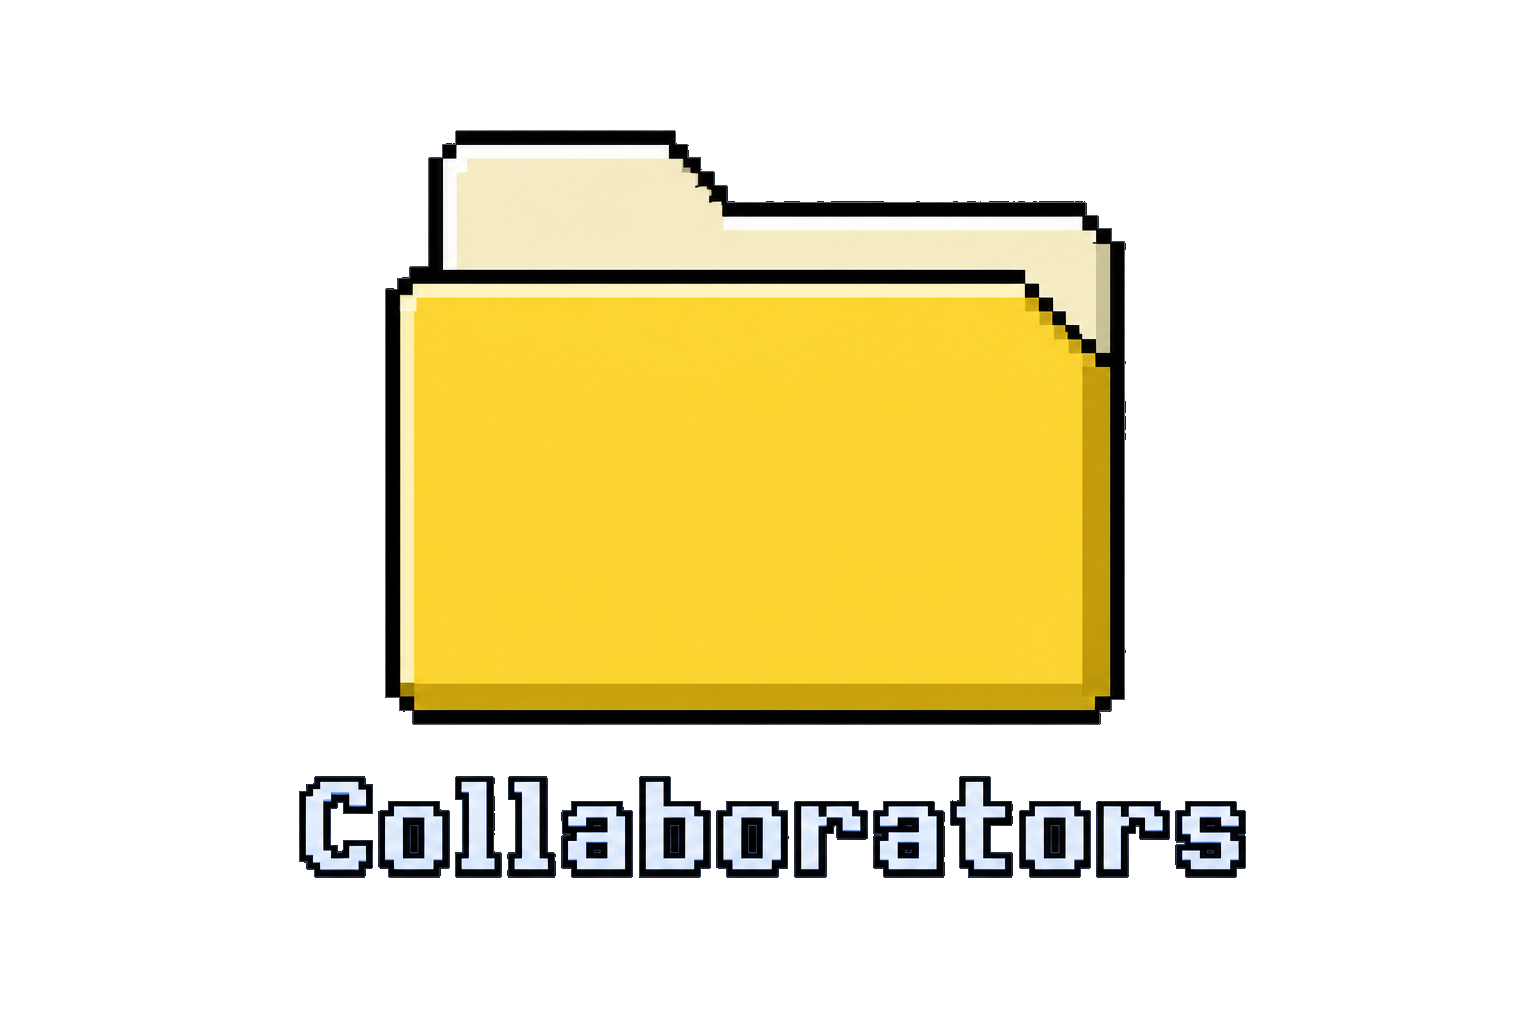
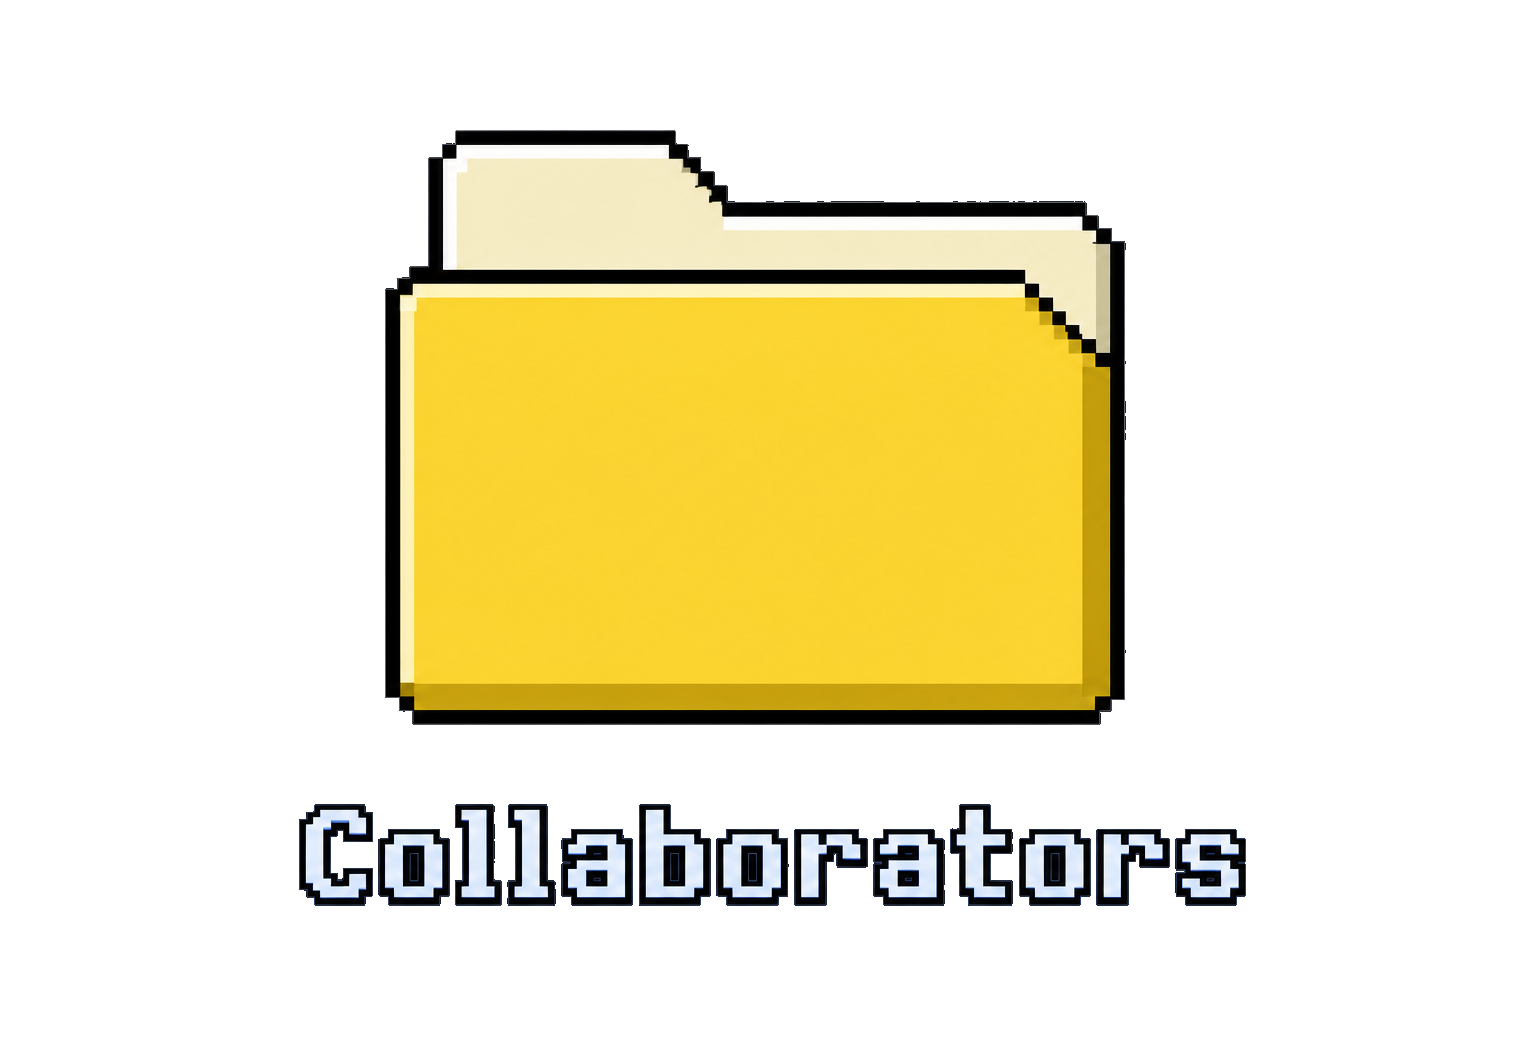
Richer halftone background, folder spacing, system cursors
- Add layered halftone bg.png with lavender, pink, and blue variation
- Increase gap between folder icon and Collaborators label
- Revert all custom cursor sprites to native default/pointer

diff --git a/index.html b/index.html
@@ -20,8 +20,6 @@
     --btn-face:#ebe6f7;
     --ocean:var(--bolt);
     --shadow-dot:#c9c3e8;
-    --cursor-default:url('assets/cursor-default.svg') 0 0, default;
-    --cursor-pointer:url('assets/cursor-pointer.svg') 8 2, pointer;
   }
   *{box-sizing:border-box}
   html,body{height:100%}
@@ -31,7 +29,7 @@
     font-family:Tahoma, Geneva, "DejaVu Sans", Verdana, sans-serif;
     -webkit-font-smoothing:none;
     padding:0;
-    cursor:var(--cursor-default);
+    cursor:default;
   }
   .canvas{
     position:relative;
@@ -40,17 +38,9 @@
     max-height:100vh;
     display:flex; align-items:center; justify-content:center;
     overflow:hidden;
-    background:linear-gradient(180deg, var(--mist) 0%, var(--dusk) 100%);
-    cursor:var(--cursor-default);
-  }
-  .canvas::before{
-    content:"";
-    position:absolute; inset:0;
-    pointer-events:none;
-    background-image:radial-gradient(circle, rgba(255,255,255,0.22) 1px, transparent 1px);
-    background-size:5px 5px;
-    mix-blend-mode:overlay;
-    image-rendering:pixelated;
+    background:var(--dusk) center/cover no-repeat;
+    background-image:url('assets/bg.png');
+    cursor:default;
   }
   .window{
     position:relative; z-index:1;
@@ -63,7 +53,7 @@
     image-rendering:pixelated; image-rendering:crisp-edges;
     display:flex; flex-direction:column;
     user-select:none;
-    cursor:var(--cursor-default);
+    cursor:default;
   }
   .titlebar{
     background:var(--bar); color:var(--bar-text);
@@ -77,7 +67,7 @@
   .winbtn{
     width:22px;height:22px; border:2px solid var(--bar-text);
     display:grid; place-items:center; font-size:12px; line-height:1;
-    color:var(--bar-text); cursor:var(--cursor-default); background:transparent;
+    color:var(--bar-text); cursor:default; background:transparent;
   }
   .winbtn b{transform:translateY(-1px)}
   .stage{position:relative; padding:0; background:var(--bg)}
@@ -96,7 +86,7 @@
     box-shadow:5px 5px 0 var(--bolt);
     font:700 18px/1.2 Tahoma, Geneva, "DejaVu Sans", Verdana, sans-serif;
     padding:17px 26px; white-space:nowrap;
-    cursor:var(--cursor-pointer);
+    cursor:pointer;
     opacity:0; pointer-events:none;
     transition:opacity .14s steps(3), transform .14s steps(3);
     z-index:3;
@@ -131,13 +121,13 @@
   }
   .arrow{
     width:46px; flex:0 0 46px; background:var(--btn-face);
-    border:none; cursor:var(--cursor-pointer); display:grid; place-items:center;
+    border:none; cursor:pointer; display:grid; place-items:center;
     position:relative;
   }
   .arrow.left{border-right:3px solid var(--win-border)}
   .arrow.right{border-left:3px solid var(--win-border)}
   .arrow:active{background:var(--glow)}
-  .arrow:disabled{cursor:var(--cursor-default); opacity:.45}
+  .arrow:disabled{cursor:default; opacity:.45}
   .arrow svg{width:18px;height:18px}
   .arrow .gly{fill:var(--dusk)}
   .track{position:relative; flex:1 1 auto; background:#ddd8f2;
@@ -146,9 +136,9 @@
     position:absolute; top:6px; bottom:6px; width:56px;
     background:var(--dusk); border:2px solid var(--win-border);
     box-shadow:inset 0 2px 0 rgba(168,161,229,.45);
-    cursor:var(--cursor-pointer); touch-action:none;
+    cursor:pointer; touch-action:none;
   }
-  .thumb:active{cursor:var(--cursor-pointer)}
+  .thumb:active{cursor:pointer}
   .partner-popup{
     position:absolute; left:20px; bottom:20px; width:230px;
     background:var(--partner-surface,#faf8ff);
@@ -170,7 +160,7 @@
     width:15px; height:15px; padding:0;
     background:var(--glow); border:2px solid var(--win-border);
     color:var(--dusk); font-size:9px; line-height:1;
-    cursor:var(--cursor-pointer); display:grid; place-items:center;
+    cursor:pointer; display:grid; place-items:center;
     font-family:inherit; font-weight:700;
   }
   .partner-close:active{background:#ff8faa}
@@ -207,7 +197,7 @@
     z-index:2;
     display:grid; place-items:center;
     padding:0; border:none; background:transparent;
-    cursor:var(--cursor-pointer);
+    cursor:pointer;
     image-rendering:pixelated; image-rendering:crisp-edges;
     transition:opacity .18s steps(4), transform .18s steps(4);
   }
@@ -230,7 +220,7 @@
 
 <div class="canvas">
   <button class="folder-launch" id="folderLaunch" type="button" aria-label="Open Collaborators">
-    <img src="assets/collaborators-folder.png" alt="" width="208" height="247" decoding="async">
+    <img src="assets/collaborators-folder.png" alt="" width="208" height="254" decoding="async">
   </button>
 <div class="window" id="appWindow" role="application" aria-label="Global Collaborators globe explorer" hidden aria-hidden="true">
   <div class="titlebar">
